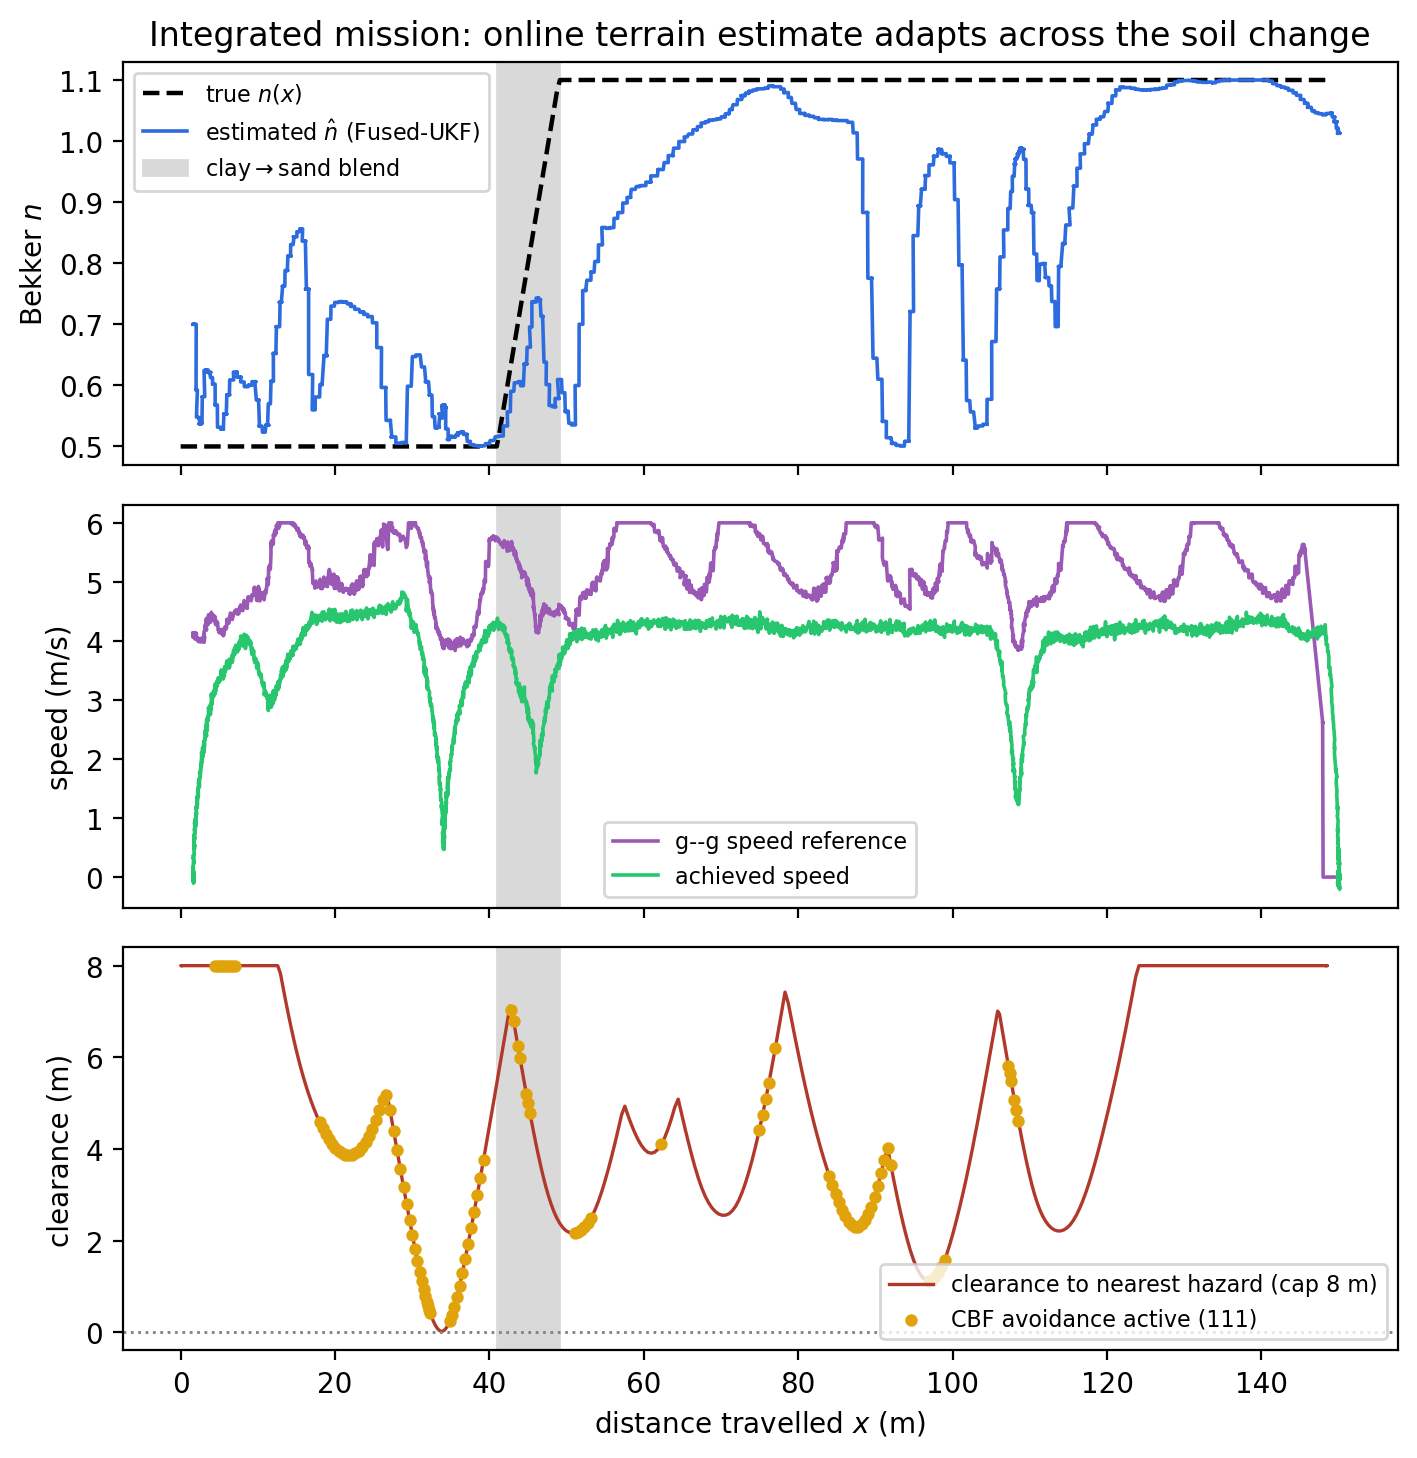
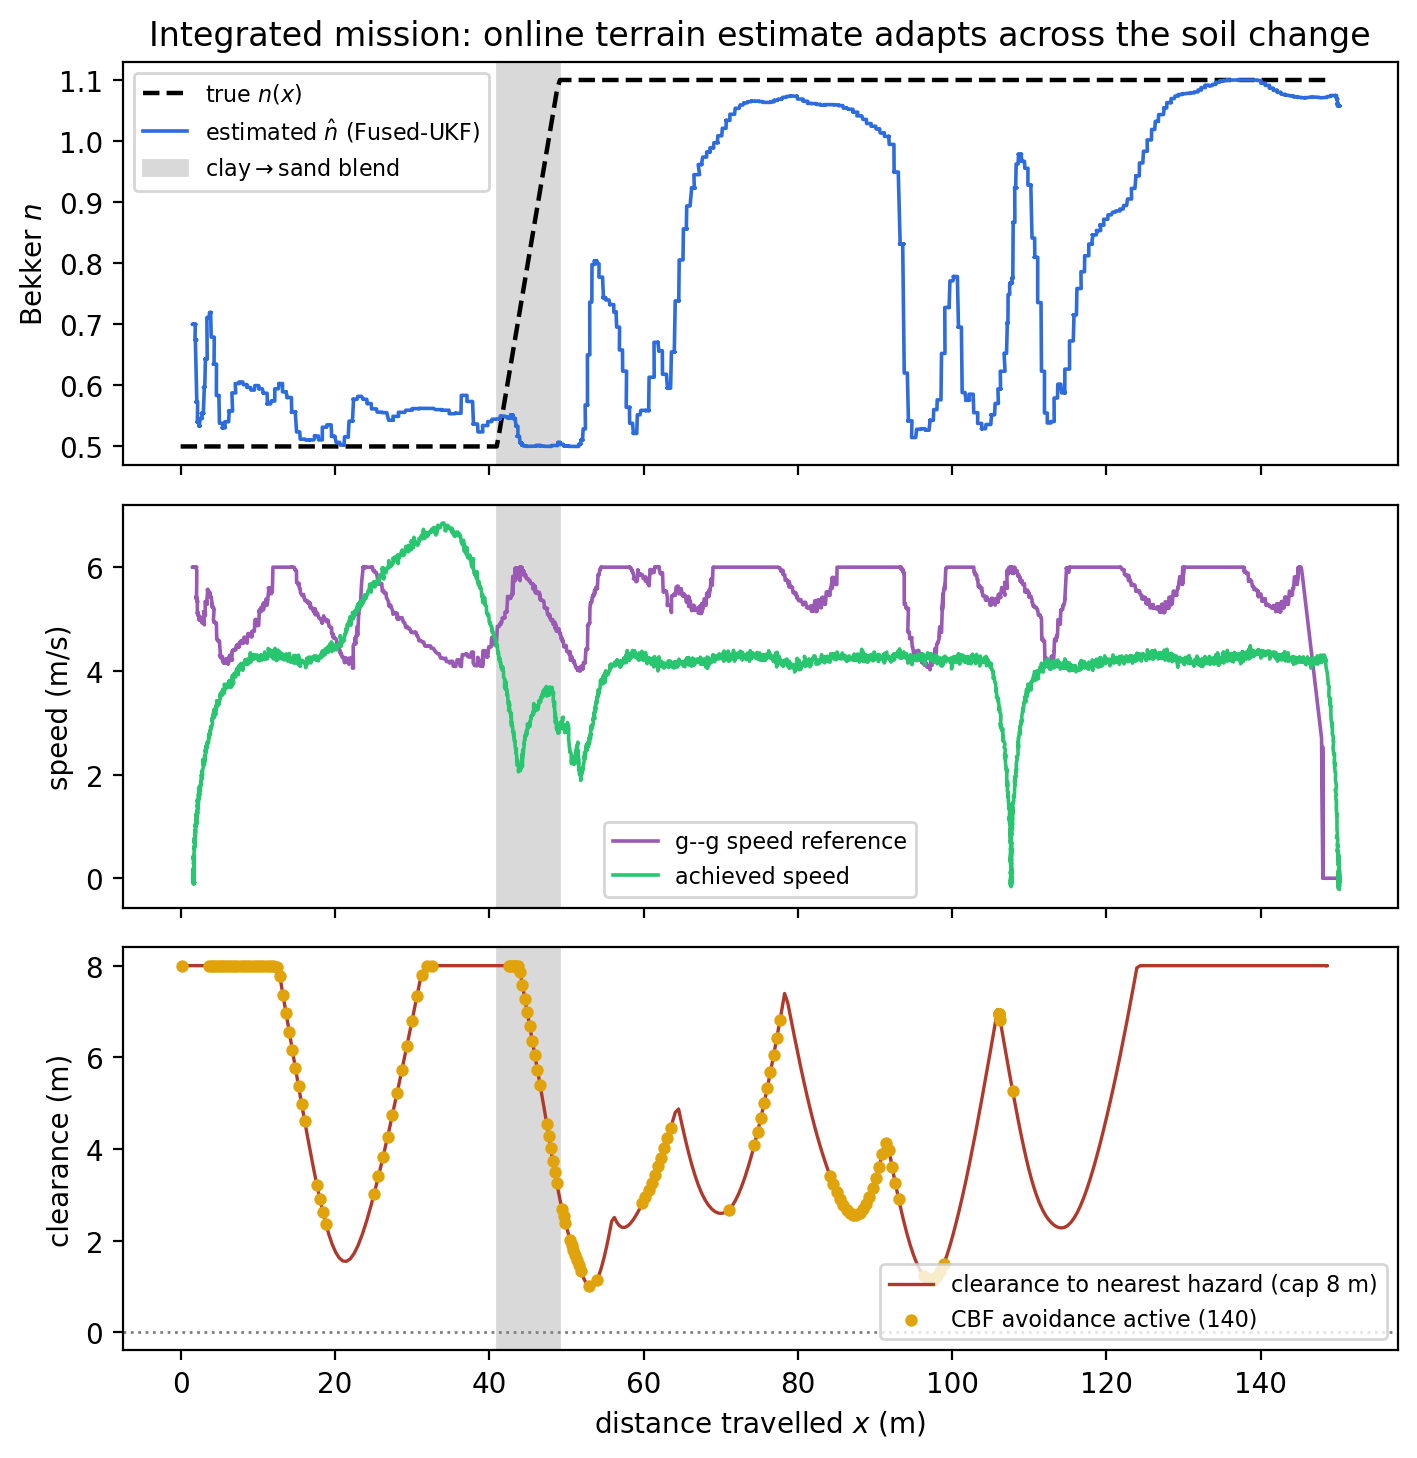
acmd-rig: hero run on rig tire model - collision-free, closest pass 0.99m (vs 0.02m graze on vehicle), 140 CBF steps

diff --git a/my_paper/acmd_fullpaper.tex b/my_paper/acmd_fullpaper.tex
@@ -446,7 +446,7 @@ the g--g planner, the throttle observer, the DOB-CBF filter, and the collision
 warning all active. The online estimate adapts across the soil boundary, the
 achieved speed tracks the grip-limited reference with the observer closing the
 soft-soil gap, and the safety filter keeps the traverse collision-free (closest
-pass 0.02~m at the tightest rock, 111 binding-constraint avoidance steps) over
+pass 0.99~m at the tightest rock, 140 binding-constraint avoidance steps) over
 the 148~m mission. The run exercises the cross-layer interface a per-component
 evaluation cannot: the estimator's live-terrain update re-conditions the safety
 filter's braking authority through the same message the controller uses to